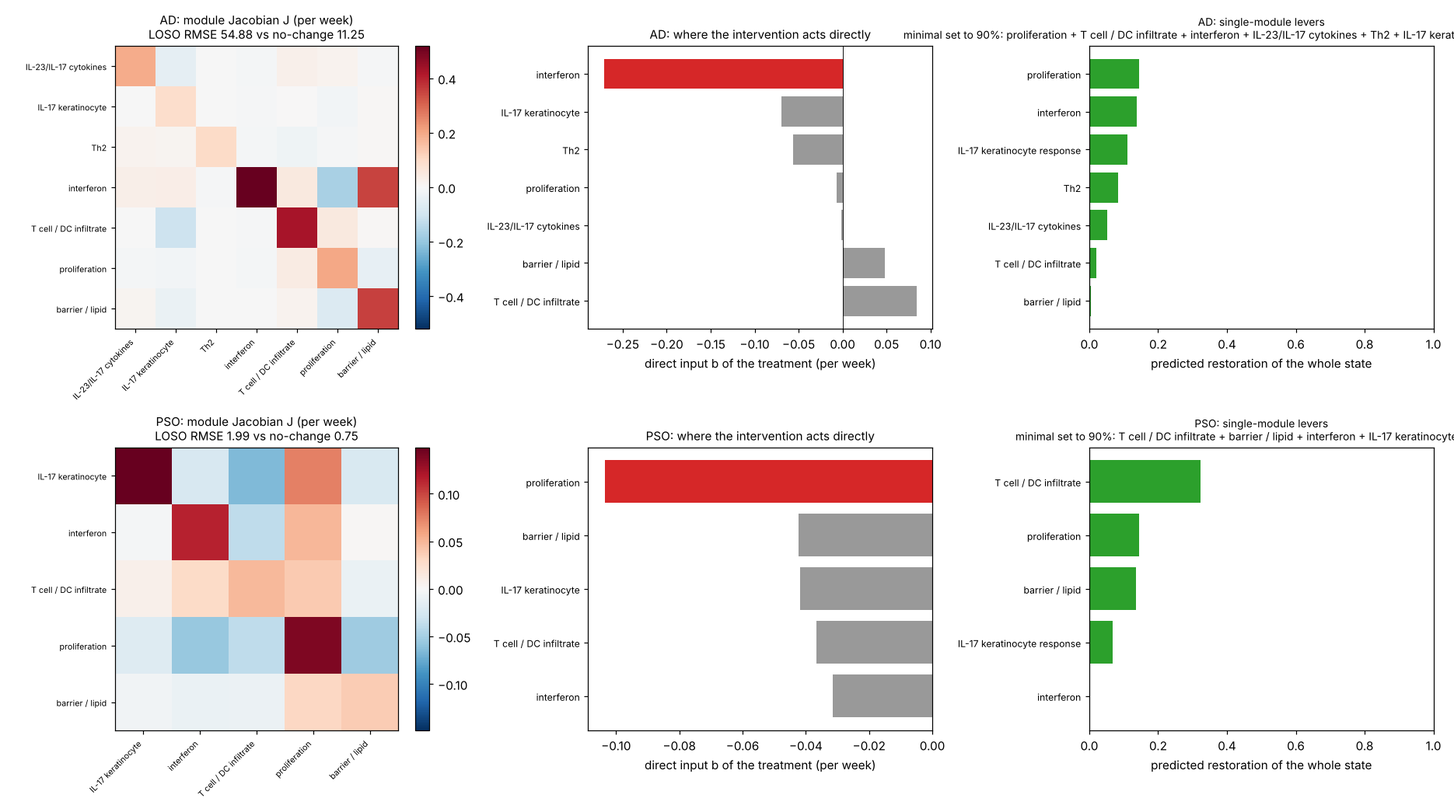
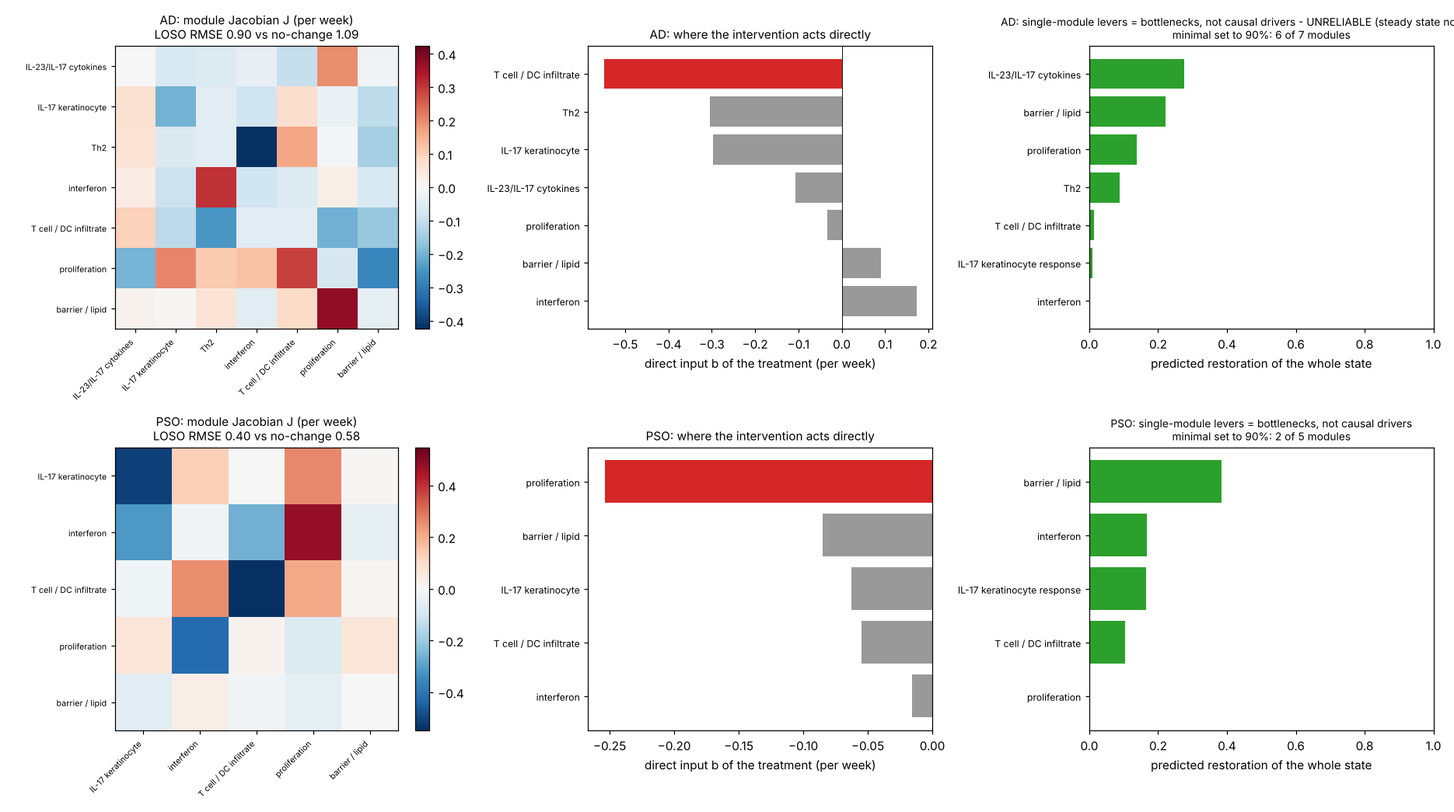
Skill state-restoration: steady state -> order parameters -> core network -> dynamics -> minimal adjustment
- netjac/statepipe.py: generic pipeline (StateData -> state card); exact-solution
  module dynamics dy/dt = J(y - yD) + b0 + b u with stable J, subject-level CV,
  identifiability guard; lever meaning/reliability flags.
- D15: end-to-end validation on AD vs placebo, psoriasis, IBD: steps 1-3 pass;
  dynamics beats no-change by 17-31%; slow mode = barrier/epithelium (observed
  last to restore); dupilumab b on T cell/DC and Th2, not interferon; the
  pre-specified lever check FAILED (barrier, not IL-17): levers from a single
  observational intervention are bottlenecks, causal levers need perturbational J.
- .claude/skills/state-restoration: SKILL.md (decision rules, gates), reference
  workflow / validation / pitfalls, GEO-or-CSV template (smoke-tested).

Claude-Session: https://claude.ai/code/session_01YNNAxdGumKJEqGcnbE4X2C

diff --git a/netjac/statepipe.py b/netjac/statepipe.py
@@ -387,7 +387,16 @@ def minimal_adjustment(dyn, target=0.9, max_size=None, J=None):
                    "basis": "steady state" if dyn.get("identifiable", True) else f"t = {dyn['T_obs']:g} (steady state not identifiable)",
                    "direct_target": names[int(np.argmin(dyn["b"]))],
                    "b": dict(zip(names, dyn["b"]))}
-    return {"singles": singles, "path": path, "structural_drivers": drivers, "applied": applied}
+    # what the lever ranking means: with J fitted from ONE observational
+    # intervention it ranks BOTTLENECKS (slow, weakly self-restoring modules),
+    # not causal upstream drivers (D15: psoriasis -> barrier, not IL-17).
+    # Causal levers need J from perturbations of individual modules
+    # (Perturb-seq / MRA, D9-D11) or several interventions on different modules.
+    meaning = ("causal levers (J from module-level perturbations)" if dyn.get("perturbational")
+               else "bottlenecks under the observed intervention (not causal drivers)")
+    reliable = bool(dyn.get("identifiable", True))
+    return {"singles": singles, "path": path, "structural_drivers": drivers, "applied": applied,
+            "meaning": meaning, "reliable": reliable}
 
 
 # =================================================================== card
@@ -459,7 +468,8 @@ def print_card(card, title=""):
                   f"{d['T_obs']:g}); predicted state at t = {d['T_obs']:g}: " +
                   ", ".join(f"{a} {u:+.2f}->{v:+.2f}" for a, u, v in zip(d['names'], d['yD'], d['y_at_T'])))
         a = card["adjust"]
-        print("5 minimal adjustment (sustained direct adjustment of a module set):")
+        print(f"5 minimal adjustment (sustained direct adjustment of a module set) - ranks {a['meaning']}"
+              + ("" if a["reliable"] else "; UNRELIABLE: steady state not identifiable") + ":")
         for p in a["path"]:
             print(f"  {len(p['set'])} module(s) {p['set']} -> restoration {p['restoration']:.2f}")
         print("  single-module levers (restoration of whole state | of the other modules): " +

diff --git a/netjac/demos/d15_state_pipeline.py b/netjac/demos/d15_state_pipeline.py
@@ -143,9 +143,11 @@ def figures(R):
         ax2.set_yticks(range(len(sing)), [k.split(" (")[0] for k, _ in sing], fontsize=8)
         ax2.invert_yaxis()
         ax2.set_xlim(0, 1)
-        path = " + ".join(x.split(" (")[0] for x in a["path"][-1]["set"])
+        nset = len(a["path"][-1]["set"])
         ax2.set_xlabel("predicted restoration of the whole state")
-        ax2.set_title(f"{key}: single-module levers\nminimal set to 90%: {path}", fontsize=9)
+        flag = "" if a["reliable"] else " - UNRELIABLE (steady state not identifiable)"
+        ax2.set_title(f"{key}: single-module levers = bottlenecks, not causal drivers{flag}\n"
+                      f"minimal set to 90%: {nset} of {len(a['singles'])} modules", fontsize=9)
     fig.tight_layout()
     p = os.path.join(FIG, "d15_state_pipeline.png")
     fig.savefig(p, dpi=110)

diff --git a/.claude/skills/state-restoration/SKILL.md b/.claude/skills/state-restoration/SKILL.md
@@ -1,0 +1,121 @@
+---
+name: state-restoration
+description: >-
+  Define a cell / tissue / indication state by its perturbation-recovery
+  behaviour and ask what returns it to balance. Five steps on omics (or any
+  multivariate) data with a reference state and a perturbed or disease state,
+  optionally followed over time under an intervention: (1) STEADY STATE (balance
+  reference, noise floor, disease displacement, persistence), (2) ORDER
+  PARAMETERS (disease coordinate phi, module coordinates, label-free collective
+  modes), (3) MINIMAL CORE NETWORK (disrupted modules, couplings, core genes
+  replicated across groups), (4) module-level DYNAMICS dy/dt = J(y - yD) + b0 +
+  b u (recovery time constants, slow mode = residual, b = where the
+  intervention acts), (5) MINIMAL ADJUSTMENT (fewest modules to restore the
+  steady state; structural driver set). Use for a new indication, treatment
+  trial, challenge study, stimulus time course or knockout; for "does
+  treatment restore the balance state", "which components are core", "what
+  is the minimal intervention", "is dynamic information better than static".
+  Built on netjac (statepipe.py, recovery.py, statmech.py); validated on
+  GEO datasets with known positives. Enforces ✅ rigorous / ⚠ hypothesis
+  labels.
+---
+
+# State restoration: steady state → order parameters → core network → dynamics → minimal adjustment
+
+Engine: `netjac/statepipe.py`, with helpers in `netjac/recovery.py` (nested M0→M3 tests, driver nodes, greedy restoration) and `netjac/statmech.py` (collective modes, shrinkage couplings, MRA). Data loader: `netjac/data/geo.py`, which reads any GEO series matrix and GPL annotation.
+
+## 0. Before any computation: what kind of state, what data
+
+Answer these four questions first and write the answers down.
+
+1. **Is the state functional or compositional?**
+   - *Functional* means how the object answers an input: routing, susceptibility, reserve, a compensated feedback. Static data CANNOT define it; you need a standardised perturbation (stimulus, challenge, treatment).
+   - *Compositional* means what the object is made of: genotype, cell type, an integrator such as HbA1c. Static data usually suffice, and adding dynamics adds nothing or makes it worse.
+
+   Evidence:
+
+   | Case | Static | With perturbation |
+   |---|---|---|
+   | D12 macrophage routing | AUC 0.50 | 1.00 |
+   | D12 macrophage genotype | 1.00 | — |
+   | D13 influenza susceptibility | 0.59–0.72 | 0.93 |
+   | D11 NHANES OGTT | — | ΔC ≈ 0 |
+
+2. **What is the balance reference?** In order of preference:
+   - the subject's own unaffected sample (non-lesional tissue, pre-challenge blood, same plate);
+   - control tissue from the same study;
+   - healthy volunteers from another batch (flag it).
+3. **What is the known positive, defined independently of the readout?** Examples: clinical response score, textbook pathway dependence, drug vs placebo, ground-truth simulation. Also define a negative control: placebo, non-targeted module, housekeeping genes.
+4. **Which of the five steps can the data support?**
+
+| Data | Steps | Example |
+|---|---|---|
+| Reference + disease, one time point | 1–3 | CPTAC tumour vs normal (D9) |
+| Reference + disease + ≥ 2 follow-up times under an intervention | 1–5 (steady state identifiable) | psoriasis weeks 0–16 (D14/D15) |
+| Only 1 follow-up time | 1–4; y* and step 5 flagged unreliable | IBD before/after (D15) |
+| Perturbation screen (each module / gene perturbed) | causal J by MRA → causal levers | Perturb-seq (D9–D11), Norman doubles |
+| Kinetic model available | exact J, fragility, ground-truth levers | Teusink (D11), network-jacobian skill |
+
+## 1–5. Run
+
+```python
+from netjac import statepipe as sp
+D = sp.StateData(X=..., features=..., subject=..., kind=..., time=...,   # kind: "ref" | "state"
+                 arm={subj: "drug"|"placebo"}, outcome={subj: bool}, group={subj: g})
+card = sp.run(D, modules)            # modules: {name: [genes]} or sp.auto_modules(D, sp.steady_state(D))
+sp.print_card(card, "my indication")
+```
+
+To start a new indication, use the template `assets/run_state_pipeline.py` (GEO or CSV input). It follows the conventions of the worked example `netjac/demos/d15_state_pipeline.py`. Method details and formulas are in `reference/workflow.md`.
+
+What each step returns, and how to read it:
+
+| Step | Output | Read it as |
+|---|---|---|
+| 1 Steady state | disease genes; displacement in noise units; excluded subjects; control-arm restoration over time | Is the disease state far from balance (≫ 1 noise unit)? Is it itself stable without intervention (control arm ≈ 0)? |
+| 2 Order parameters | φ per sample (1 = own disease state, 0 = balance); module coordinates; number of collective modes over the shuffle null; \|r(PC, φ)\| | If PC1 ≈ φ, the state is ONE collective mode, and one high-loading prior gene is a sufficient readout. If not, inter-individual heterogeneity dominates |
+| 3 Core network | modules actually disrupted; partial correlations; core genes replicated in every group | The minimal set of components that describes the state. Replication across groups is mandatory |
+| 4 Dynamics | J, time constants, slow mode, b0 (natural course), b (intervention), y* or y(T) | Slow mode = what will remain (residual disease). b = mechanism. CV error must beat "no change" |
+| 5 Minimal adjustment | greedy module set to 90 %; single-module levers with propagation; structural drivers; applied intervention as a lever | With J from one observational intervention: BOTTLENECKS, not causal drivers. Causal levers need perturbational J |
+
+## Validation gates (do not report a step that fails its gate)
+
+1. **Known positive recovered.** Examples: textbook-dependent stimuli separated; drug > placebo; molecular restoration correlates with clinical improvement.
+2. **Negative control flat.** Placebo or untreated restoration ≈ 0 at the early visit. A housekeeping module is undefined (not disrupted). Non-targeted modules do not move more than placebo.
+3. **Boring baselines beaten or matched.**
+   - State definition: the static readout and the clinical early-improvement readout.
+   - Dynamics: "no change" and the same-arm mean trajectory.
+   - Minimal readouts: random gene sets of the same size.
+4. **Transfer.** Leave a whole group out (strain, virus, drug, plate, tissue) and report the per-group numbers.
+5. **Published numbers reproduced where they exist.** Verify every PMID before writing it down.
+
+## Validated cases and what passed
+
+| Case | Data | Result |
+|---|---|---|
+| D11 | Teusink glycolysis (ground truth) | Hidden feedback defect. Static AUC 0.66 (FP 74 %) → one challenge 0.996 (FP 0.4 %). The greedy restoration set contains the true fix ✅ |
+| D11 | K562 Perturb-seq / Norman 2019 | Homeostats transfer to unseen families (0.63 vs static 0.06). Single responses predict which double restores the state (0.89 vs 0.55) ✅ |
+| D12 | GSE75210 Myd88⁻/⁻ macrophages | Routing: static 0.50 → trajectory 1.00 (replicate r 0.91). Bypass inputs restore NF-κB at an interferon cost ✅ |
+| D13 | GSE52428 influenza challenge → GSE17156 HRV/RSV | Static 0.59–0.72 → 0.93 (leave-strain-out). Core = type I IFN (111 genes, null 0). Illness = one collective mode ✅ |
+| D14 | Psoriasis, AD vs placebo, IBD | Restoration tracks clinical scores (ρ 0.58–0.66). Dupilumab 0.63 vs placebo −0.04 (paper: 68.8 % vs −10.5 %). Th2 restored, interferon not ✅ |
+| D15 | Pipeline end to end on D14 data | See below |
+
+D15 details:
+- Steps 1–3 pass on all three datasets.
+- Dynamics beats "no change" by 17–31 % in cross-validated error and matches the same-arm mean.
+- Slow mode = barrier / epithelium ✅.
+- AD direct input b: T cell / DC first, Th2 second, interferon the only positive (specificity ✅, Th2 not first ⚠).
+- Psoriasis lever check FAILED: barrier ranked first, not IL-17. Levers from a single intervention are bottlenecks ⚠.
+
+## Labelling rules
+
+- ✅ **rigorous**: a measured statistic on real data with its CI or null, an exact computation, or a decimal-exact model.
+- ⚠ **hypothesis**: a mechanism behind a statistic, an extrapolation beyond the sampling window, a lever ranking from observational J, a cross-batch reference, or a virtual cohort.
+- Report negative results as findings. Examples: OGTT adds nothing to mortality prediction; the psoriasis lever check failed; IBD static severity predicts response as well as anything.
+
+## Read next
+
+- `reference/workflow.md`: formulas, parameter choices and decision rules for each step.
+- `reference/pitfalls.md`: every way this went wrong before it was fixed (regression to the mean, distance vs projection, unstable J, ratio blow-ups, overlapping cohorts, citation errors).
+- `reference/validation.md`: the pre-specified checks and their outcomes, case by case.
+- The `network-jacobian` skill: kinetic models, fragility, statistical-physics micro → macro, Perturb-seq MRA (causal J for step 5).

diff --git a/NETJAC_REPORT.md b/NETJAC_REPORT.md
@@ -1057,7 +1057,75 @@
 
 ---
 
-## 16. 平台与 skill（可延伸）
+## 16. 方法整理成 skill：稳态 → 序参量 → 最小核心网络 → 动力学 → 最小调整（`netjac/statepipe.py`，skill `state-restoration`，`demos/d15_state_pipeline.py`）
+
+把 D11–D14 的方法合成一条可迁移到任何适应症的流程，并在三组真实干预数据上端到端检验。输入只需要：
+- 样本 × 特征矩阵；
+- 每个样本的受试者、类型（参照 / 状态）、时间；
+- 可选：治疗臂、已知阳性、复现分组。
+
+| 步骤 | 函数 | 产出 | 内置的教训 |
+|---|---|---|---|
+| 1 稳态 | `steady_state` | 平衡参照、疾病基因、留一法疾病轴、偏离噪声地板的倍数、对照臂中疾病态是否持续 | 自身参照优先；留一法轴避免回归均值；预先规定排除 |
+| 2 序参量 | `order_parameters` | φ（1 = 自身疾病态，0 = 平衡态）、模块坐标、无标签集体模态及其与 φ 的对齐 | 用投影不用距离；模块按队列中位数归一 |
+| 3 最小核心网络 | `core_network` | 真正被扰动的模块、偏相关耦合、各组都复现的核心基因 | 未被扰动的模块无定义（管家基因 = 阴性对照） |
+| 4 动力学 | `fit_dynamics` | dy/dt = J(y − y_D) + b0 + b·u：时间常数、慢模态、自然病程 b0、干预直接输入 b、稳态 y* | 精确解拟合整条轨迹；稳定参数化；受试者级交叉验证；可辨识性检查 |
+| 5 最小调整 | `minimal_adjustment` | 达到 90% 恢复的最少模块集、单模块杠杆及其传播、结构驱动节点、实际干预作为杠杆 | 观察性 J 给出的是瓶颈，不是因果上游 |
+
+### 16.1 端到端检验（预先规定的检查）
+
+**步骤 1–3 全部通过** ✅：
+- 疾病态偏离噪声地板 2.7–7.5 倍。安慰剂臂第 4 周恢复度 −0.05，说明疾病态本身是稳态。
+- φ 在干预前无区分力（0.50），干预后区分疗效：AD 第 16 周 0.85、银屑病第 4 周 0.79、IBD 0.86。
+- 无标签 PC1 与 φ 的对齐：银屑病 0.83、IBD 0.78；AD 只有 0.13（PC2 为 0.51，个体异质性占主导）⚠。
+- 银屑病两种药物各自复现的核心基因 190/206 个。
+
+**步骤 4 动力学** ✅（与 ⚠）：
+
+| | AD | 银屑病 | IBD |
+|---|---|---|---|
+| 交叉验证 RMSE（模型 / 不变 / 同臂平均轨迹） | 0.90 / 1.09 / 0.88 | 0.40 / 0.58 / 0.40 | 0.36 / 0.49 / 0.36 |
+| 稳态可辨识 | 否（τ 463 周 > 窗口） | 是 | 否（只有 1 个随访点） |
+| 慢模态 | 增殖、Th2 | **屏障 / 脂质**（τ 23 周） | **上皮代谢** |
+
+- 模型在三组数据上都比“不变”好 17–31%，与同臂平均轨迹持平：个体信息只通过起点进入。
+- 慢模态与第 15 节观察到“最后恢复”的模块一致（银屑病屏障第 16 周只恢复 0.65），即残留部分可以由模型预测 ✅。
+- AD 中干预直接输入 b 排序：T 细胞 / DC −0.55、Th2 −0.31、IL-17 角质细胞 −0.30。干扰素是唯一 b > 0 的模块（不被药物调控）。特异性 ✅，但 Th2 排第二而非第一 ⚠。
+
+**步骤 5 最小调整：预先规定的检查没有通过** ❌：
+- 银屑病数据中没有 IL-17 药物，而临床上 IL-17 阻断是最有效的。如果方法能找到因果上游，IL-17 角质细胞模块应排第一。
+- 实际单模块杠杆排序是屏障 / 脂质 0.38、IL-17 0.17。两个模块组合（屏障 + 增殖）可达 93%。
+- AD 的杠杆排序（IL-23/IL-17 第一，Th2 第四）也不对，而且稳态不可辨识，标为不可靠。
+
+**结论** ⚠：从单一观察性干预拟合的 J 描述的是“在这个干预下系统如何回落”。它给出的杠杆是自身回落最慢的**瓶颈**（可作为联合用药的候选），不是因果上游。要预测因果上游的最小调控集，J 必须来自以下之一：
+- 对单个模块 / 基因的扰动数据（Perturb-seq / MRA，第 10–11 节）；
+- 作用于不同模块的多个干预；
+- 机理动力学模型（第 12.1 节：真实修复被找到）。
+
+这条已写进 skill 作为硬规则。
+
+### 16.2 无先验模块时（自动模块）
+- AD 自动聚类得到 3 个主要模块：上调 279 个，包含先验的 IL-17、Th2、T 细胞、干扰素基因；下调 171 个与 48 个，含屏障 / 脂质基因。
+- 此时稳态可辨识（τ 17 周）；模型对实际干预的恢复度预测为 0.70，观察值为 1.06，低估了 ⚠。
+- 自动模块可以在没有先验时使用，但粒度粗。能用先验模块时优先用先验模块。
+
+### 16.3 skill 的组成
+```
+.claude/skills/state-restoration/
+  SKILL.md                    先判断：功能态还是组成态、参照、已知阳性、数据能支持哪几步；然后五步与验证关卡
+  reference/workflow.md       每一步的公式、参数和决策规则
+  reference/validation.md     每个预先规定检查的结果（含失败项）
+  reference/pitfalls.md       所有曾经导致错误结论的坑及修正
+  assets/run_state_pipeline.py  新适应症模板（GEO 或 CSV 输入）
+netjac/statepipe.py           通用引擎（StateData → state card）
+netjac/data/geo.py            任何 GEO series matrix + 平台注释
+```
+
+图：`figures/netjac/d15_state_pipeline.png`。
+
+---
+
+## 17. 平台与 skill（可延伸）
 
 ```
 netjac/
@@ -1087,6 +1155,8 @@ netjac/
   demos/d12_timecourse_cell_state.py  真实时间序列：Myd88⁻/⁻ 巨噬细胞 12 刺激 × 8 时间点（GSE75210），路由 / 基因型 / 恢复 / 旁路恢复
   demos/d13_human_challenge_state.py  人体真实时间序列：流感攻毒 41 人 × 16 次采血（GSE52428）+ 鼻病毒 / RSV 迁移（GSE17156）
   demos/d14_treatment_restoration.py  有治疗干预的人体数据：银屑病（GSE85034）、特应性皮炎 vs 安慰剂（GSE130588）、IBD 英夫利西单抗（GSE16879），恢复度 = 留一法疾病轴投影
+  statepipe.py     状态恢复流程：稳态 → 序参量 → 最小核心网络 → 动力学 J(y−y_D)+b0+b·u → 最小调整（skill state-restoration）
+  demos/d15_state_pipeline.py  流程在 AD / 银屑病 / IBD 上的端到端检验（含失败的杠杆检查）
   data/geo.py      GEO series matrix + GPL 注释 → 基因 × 样本表与样本信息（任何 GEO 时间序列都可直接接入）
   demos/d10_signs_genomewide_thresholds.py  磷酸化活性层正负号 + 全基因组有向雅可比 / 稳态器图谱 + 实测 β 细胞阈值（cptac.load_phospho）
   run_all.py       （--tcga 运行 D4）

diff --git a/.claude/skills/state-restoration/reference/validation.md b/.claude/skills/state-restoration/reference/validation.md
@@ -1,0 +1,68 @@
+# Pre-specified checks and their outcomes
+
+Every number is reproducible with the named demo. Status:
+- ✅ pass;
+- ⚠ partial, or the method's reading changed;
+- ❌ fail (kept, because the failure is informative).
+
+## Step 1 — steady state
+
+| Check | Case | Result | Status |
+|---|---|---|---|
+| Disease state far from balance | D15 PSO / AD / IBD | Displacement 3.8 / 2.7 / 7.5 × noise floor (between-subject upper bound) | ✅ |
+| Disease state persistent without intervention | D15 AD placebo arm | Restoration −0.05 at week 4; +0.30 at week 16 (n = 7, natural course plus selection) | ✅ early / ⚠ late |
+| Personal reference noise floor | D13 two pre-challenge samples | ISG module SD 0.23 log2 | ✅ |
+| Exclusion rule needed | D14 psoriasis | Without it one patient scored R = 40 | ✅ (rule kept) |
+
+## Step 2 — order parameters
+
+| Check | Case | Result | Status |
+|---|---|---|---|
+| φ separates the known positive after perturbation, not before | D15 AD (EASI-75 wk 16) | φ AUC t=0: 0.50 → wk 4: 0.67 → wk 16: 0.85 | ✅ |
+| | D15 PSO (PASI75) | 0.50 → wk 1: 0.68 → wk 4: 0.79 → wk 16: 0.73 | ✅ |
+| | D15 IBD (endoscopic response) | 0.50 → wk 5: 0.86 | ✅ |
+| Label-free PC aligns with φ | D15 PSO / IBD / AD | \|r(PC1, φ)\| 0.83 / 0.78 / 0.13 (AD: PC2 0.51) | ✅ / ✅ / ⚠ heterogeneity dominates AD |
+| Collective mode ⇒ one prior gene suffices | D13 influenza | PC1 (no labels) AUC 0.90; RSAD2 alone 0.85–0.90 on an unseen strain and on unseen viruses; data-driven top genes within the random-set null | ✅ |
+| Functional state needs perturbation | D12, D13 | Static 0.50 → 1.00; 0.59–0.72 → 0.93 | ✅ |
+| Compositional state static | D12 genotype | Static 1.00; dynamics adds 0 (transcriptome: −0.11) | ✅ |
+
+## Step 3 — core network
+
+| Check | Case | Result | Status |
+|---|---|---|---|
+| Core replicates across groups vs permutation null | D13 H3N2 / H1N1 | 111 up / 41 down vs null median 0 | ✅ |
+| Core = textbook pathway | D13 | Reactome IFN α/β signalling p = 3e-15 | ✅ |
+| | D12 | KEGG NF-κB p = 0.02; IRF arm kept under LPS | ✅ |
+| Core replicated across drugs | D15 PSO (ADA vs MTX) | 190 of 206 disease genes | ✅ |
+| Couplings biologically sensible | D15 PSO | IL-17 keratinocyte – proliferation partial r 0.48; interferon – T cell 0.42 | ✅ (descriptive) |
+
+## Step 4 — dynamics
+
+| Check | Case | Result | Status |
+|---|---|---|---|
+| Beats "no change" (5-fold subject CV RMSE) | D15 AD / PSO / IBD | 0.90 vs 1.09; 0.40 vs 0.58; 0.36 vs 0.49 | ✅ |
+| Matches the same-arm mean trajectory | | 0.90 vs 0.88; 0.40 vs 0.40; 0.36 vs 0.36 | ✅ (individual info only via y0) |
+| Slow mode = the module observed to restore last | D15 PSO vs D14 | Slowest τ 23 wk, barrier / lipid 0.44 of the mode. D14 observed: barrier restored 0.65 at wk 16 (lowest) | ✅ |
+| | D15 IBD | Epithelial metabolism is the slow mode | ✅ |
+| b points to the drug mechanism | D15 AD dupilumab | b: T cell / DC −0.55, Th2 −0.31, IL-17 keratinocyte −0.30; interferon +0.17 (not targeted) | ⚠ Th2 second, specificity ✅ |
+| Steady-state identifiability guard fires | D15 IBD (1 follow-up) | τ 129 wk vs window 5 wk → y* not reported, y(5 wk) instead | ✅ |
+| | D15 AD | τ 463 wk complex pair vs 16 wk | ✅ |
+| Applied intervention restoration | D15 PSO | Model 0.74 vs observed medians 0.96 (responders) and 0.59 (non-responders) in D14 | ✅ |
+| | D15 AD auto modules | Model 0.70 vs observed 1.06 at wk 16 | ⚠ under-predicts |
+
+## Step 5 — minimal adjustment
+
+| Check | Case | Result | Status |
+|---|---|---|---|
+| Ground truth: the fix is found | D11 Teusink | Greedy set = feedback strength + PFK (−99.4 %); Vmax-only −2.6 % | ✅ |
+| Rescue pairs predicted from single perturbations | D11 Norman 2019 | AUC 0.89 vs static co-expression 0.55 | ✅ |
+| Clinically validated upstream target is the top lever, from observational treatment data | D15 PSO (no IL-17 drug in the data; IL-17 blockade is the most effective therapy) | Top lever barrier / lipid (0.38); IL-17 keratinocyte 0.17 | ❌ levers = bottlenecks |
+| | D15 AD | Top lever IL-23 / IL-17 cytokines; Th2 fourth; steady state not identifiable | ❌ / unreliable |
+| Structural control on large networks | D11 Perturb-seq | 51 % driver nodes (null 48 %) → full control impractical; target functional restoration | ✅ (informative) |
+
+**What the step-5 results mean.** A J fitted from one observational intervention describes how the system relaxes under that intervention. Its "levers" are the modules that relax least by themselves: bottlenecks and candidate add-on targets.
+
+To rank causal upstream targets, J must come from one of these:
+- perturbations of individual modules or genes (Perturb-seq MRA, CRISPR screens in the relevant cell type);
+- several interventions that act on different modules;
+- a mechanistic kinetic model (the network-jacobian skill).

diff --git a/README.md b/README.md
@@ -53,6 +53,7 @@ diagnostic directions:
 | `d12_timecourse_cell_state` | **GEO GSE75210** (O'Connell 2016, TF-seq): wild-type vs *Myd88*⁻/⁻ macrophages, 12 innate stimuli × 8 time points × 2 replicate plates (384 RNA-seq libraries) | Real time-series test of the D11 framework with textbook positives. Routing (which inputs need MyD88): static t=0 AUC 0.50, any stimulated time point ≈ 1.0, trajectory area 1.0 with replicate r 0.91 and zero misclassification on the held-out replicate. Genotype is already visible statically (dynamics add nothing). Lost core = NF-κB primary-response genes; IRF arm kept under LPS. Bypass inputs (LPS, zymosan, Poly(I:C)) restore NF-κB amplitude and shape (gain ≈ 1, within the WT positive-control range) but add an interferon programme. Euclidean restoration scores are noise-dominated; use projection |
 | `d13_human_challenge_state` | **GEO GSE52428** (Woods 2013): 41 adults inoculated with H3N2/H1N1, 2 pre-challenge + 14 blood samples to 108 h; **GSE17156** rhinovirus/RSV for transfer | Human tissue-level test with a clinical known positive (symptomatic infection). Pre-challenge state: AUC 0.59–0.72, FP 50–70 %. Adding the response at 36 h / 60 h / the trajectory reaches 0.93 with 0 % FP when leaving a whole strain out, and transfers to rhinovirus/RSV (0.88–0.89; static 0.59–0.62). Core = type I IFN programme (111 genes replicated in both strains; null 0). Illness is a collective mode (label-free PC1 AUC 0.90), so one textbook ISG (RSAD2, IFI44L) matches the module while small-n data-driven picks do not beat random sets. Lymphopenia recovers by 108 h; the IFN programme has not |
 | `d14_treatment_restoration` | **GSE85034** psoriasis on adalimumab / methotrexate (weeks 0–16), **GSE130588** atopic dermatitis dupilumab vs **placebo**, **GSE16879** IBD mucosa before/after infliximab | Does treatment return tissue to balance? Restoration is the projection on a leave-one-out cohort disease axis, which removes regression to the mean (placebo week 4: −0.04). Psoriasis PASI75 responders reach 0.96 at week 16 (83 % ≥ 0.75); molecular restoration tracks PASI (ρ 0.58). Dupilumab vs placebo: 0.63 vs −0.04 (wk 4), 1.06 vs 0.43 (wk 16), matching the paper's 68.8 %/110.8 % vs −10.5 %/55 %. Restoration is axis-specific: Th2 +1.12 vs −0.01, interferon 0.25 vs 0.24. Inflammation and proliferation restore first; barrier/lipid and epithelial modules lag. Week-1 IL-17 module restoration predicts PASI75 (AUC 0.78, n.s.). In IBD, static severity already predicts response (0.94) |
+| `d15_state_pipeline` | D14 data through the generic pipeline `netjac/statepipe.py` (skill `.claude/skills/state-restoration`) | Steady state → order parameters → core network → dynamics dy/dt = J(y−y_D)+b0+b·u → minimal adjustment. Steps 1–3 pass on all three datasets. Dynamics beats no-change by 17–31 % in CV error and matches the arm mean. The slow mode is the barrier/epithelium module, which D14 observed restoring last. Dupilumab acts on T cell/DC and Th2, not interferon. Pre-specified lever check FAILED: from a single observational treatment, levers are bottlenecks (barrier), not causal drivers (IL-17); causal levers need perturbational J |
 | `d3_fragility` | Teusink, Wolf | total fragility predicts Hopf crossing 100 % (local-only formula r=0.16). Zero-flux-control vPDC is a collapse node. Best probe = critical-mode participation (ρ=+0.96), not abundance (ρ≈0) |
 
 ```bash

diff --git a/.claude/skills/network-jacobian/SKILL.md b/.claude/skills/network-jacobian/SKILL.md
@@ -132,6 +132,7 @@ sp.total_fragility(m, "vGLT", x, solver="integrate")   # dReλ/dlnE incl. state 
    - Real time series (`demos/d12_timecourse_cell_state.py`, GEO GSE75210 Myd88⁻/⁻ macrophages): a FUNCTIONAL state (which inputs route through MyD88) needs a stimulus (static AUC 0.50 → 1.0, trajectory area most replicate-robust). A COMPOSITIONAL / genotype state is visible statically. Use prior modules, not data-driven gene picks, on low-input time courses. Score restoration by projection (gain + cosine) against WT leave-one-out positive and KO negative controls, never by Euclidean distance.
    - Human tissue time series (`demos/d13_human_challenge_state.py`, GSE52428 influenza challenge, transfer to GSE17156 HRV/RSV): pre-challenge AUC 0.59–0.72 → + response 0.93 with 0 % FP (leave-strain-out). The state is a collective mode, so pick minimal readouts from prior high-loading genes. Small-n data-driven picks do not beat random gene sets. Any GEO series loads with `data/geo.py`.
    - Treatment restoration (`demos/d14_treatment_restoration.py`; psoriasis, AD vs placebo, IBD): score restoration as the projection on a LEAVE-ONE-OUT cohort disease axis. The patient's own axis turns baseline noise into fake restoration. Require a placebo or natural-course arm, and pre-specify the exclusion of biopsies without a disease signature. Effective drugs restore the targeted axis (dupilumab: Th2 +1.12, IFN unchanged). Structural modules (barrier, epithelium) restore last.
+   - The whole perturbation-recovery workflow is now a separate skill, `state-restoration` (`netjac/statepipe.py`). Use it for new indications: steady state, order parameters, core network, module dynamics, minimal adjustment.
 
 ## Mandatory discipline
 
